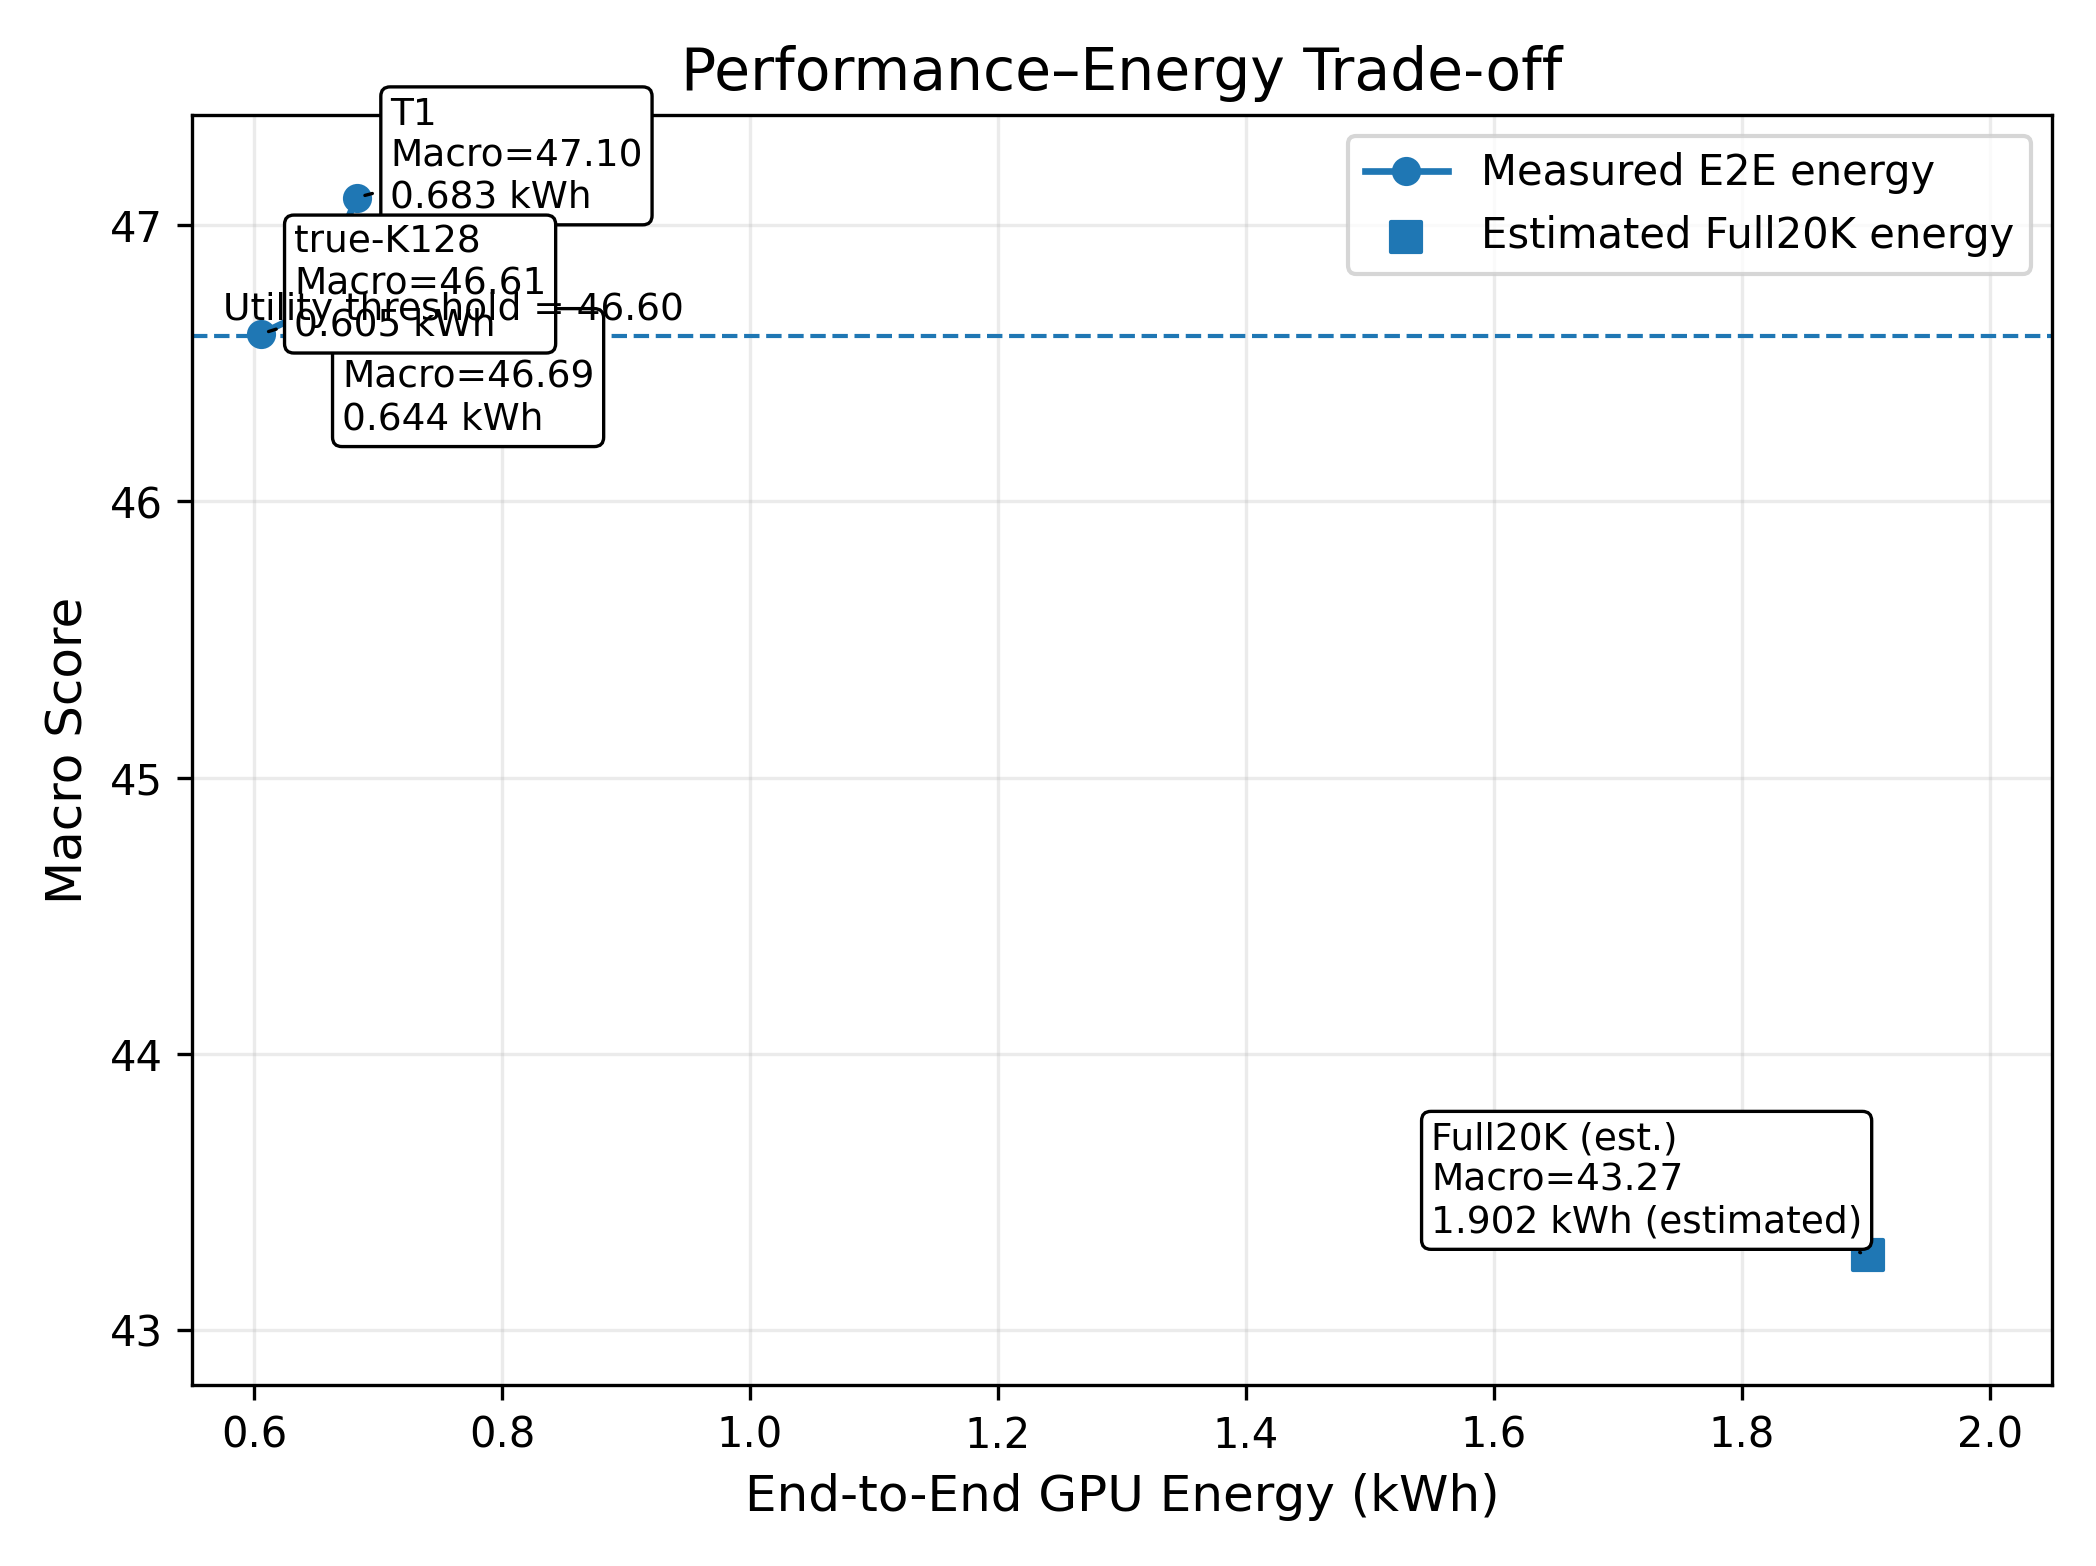
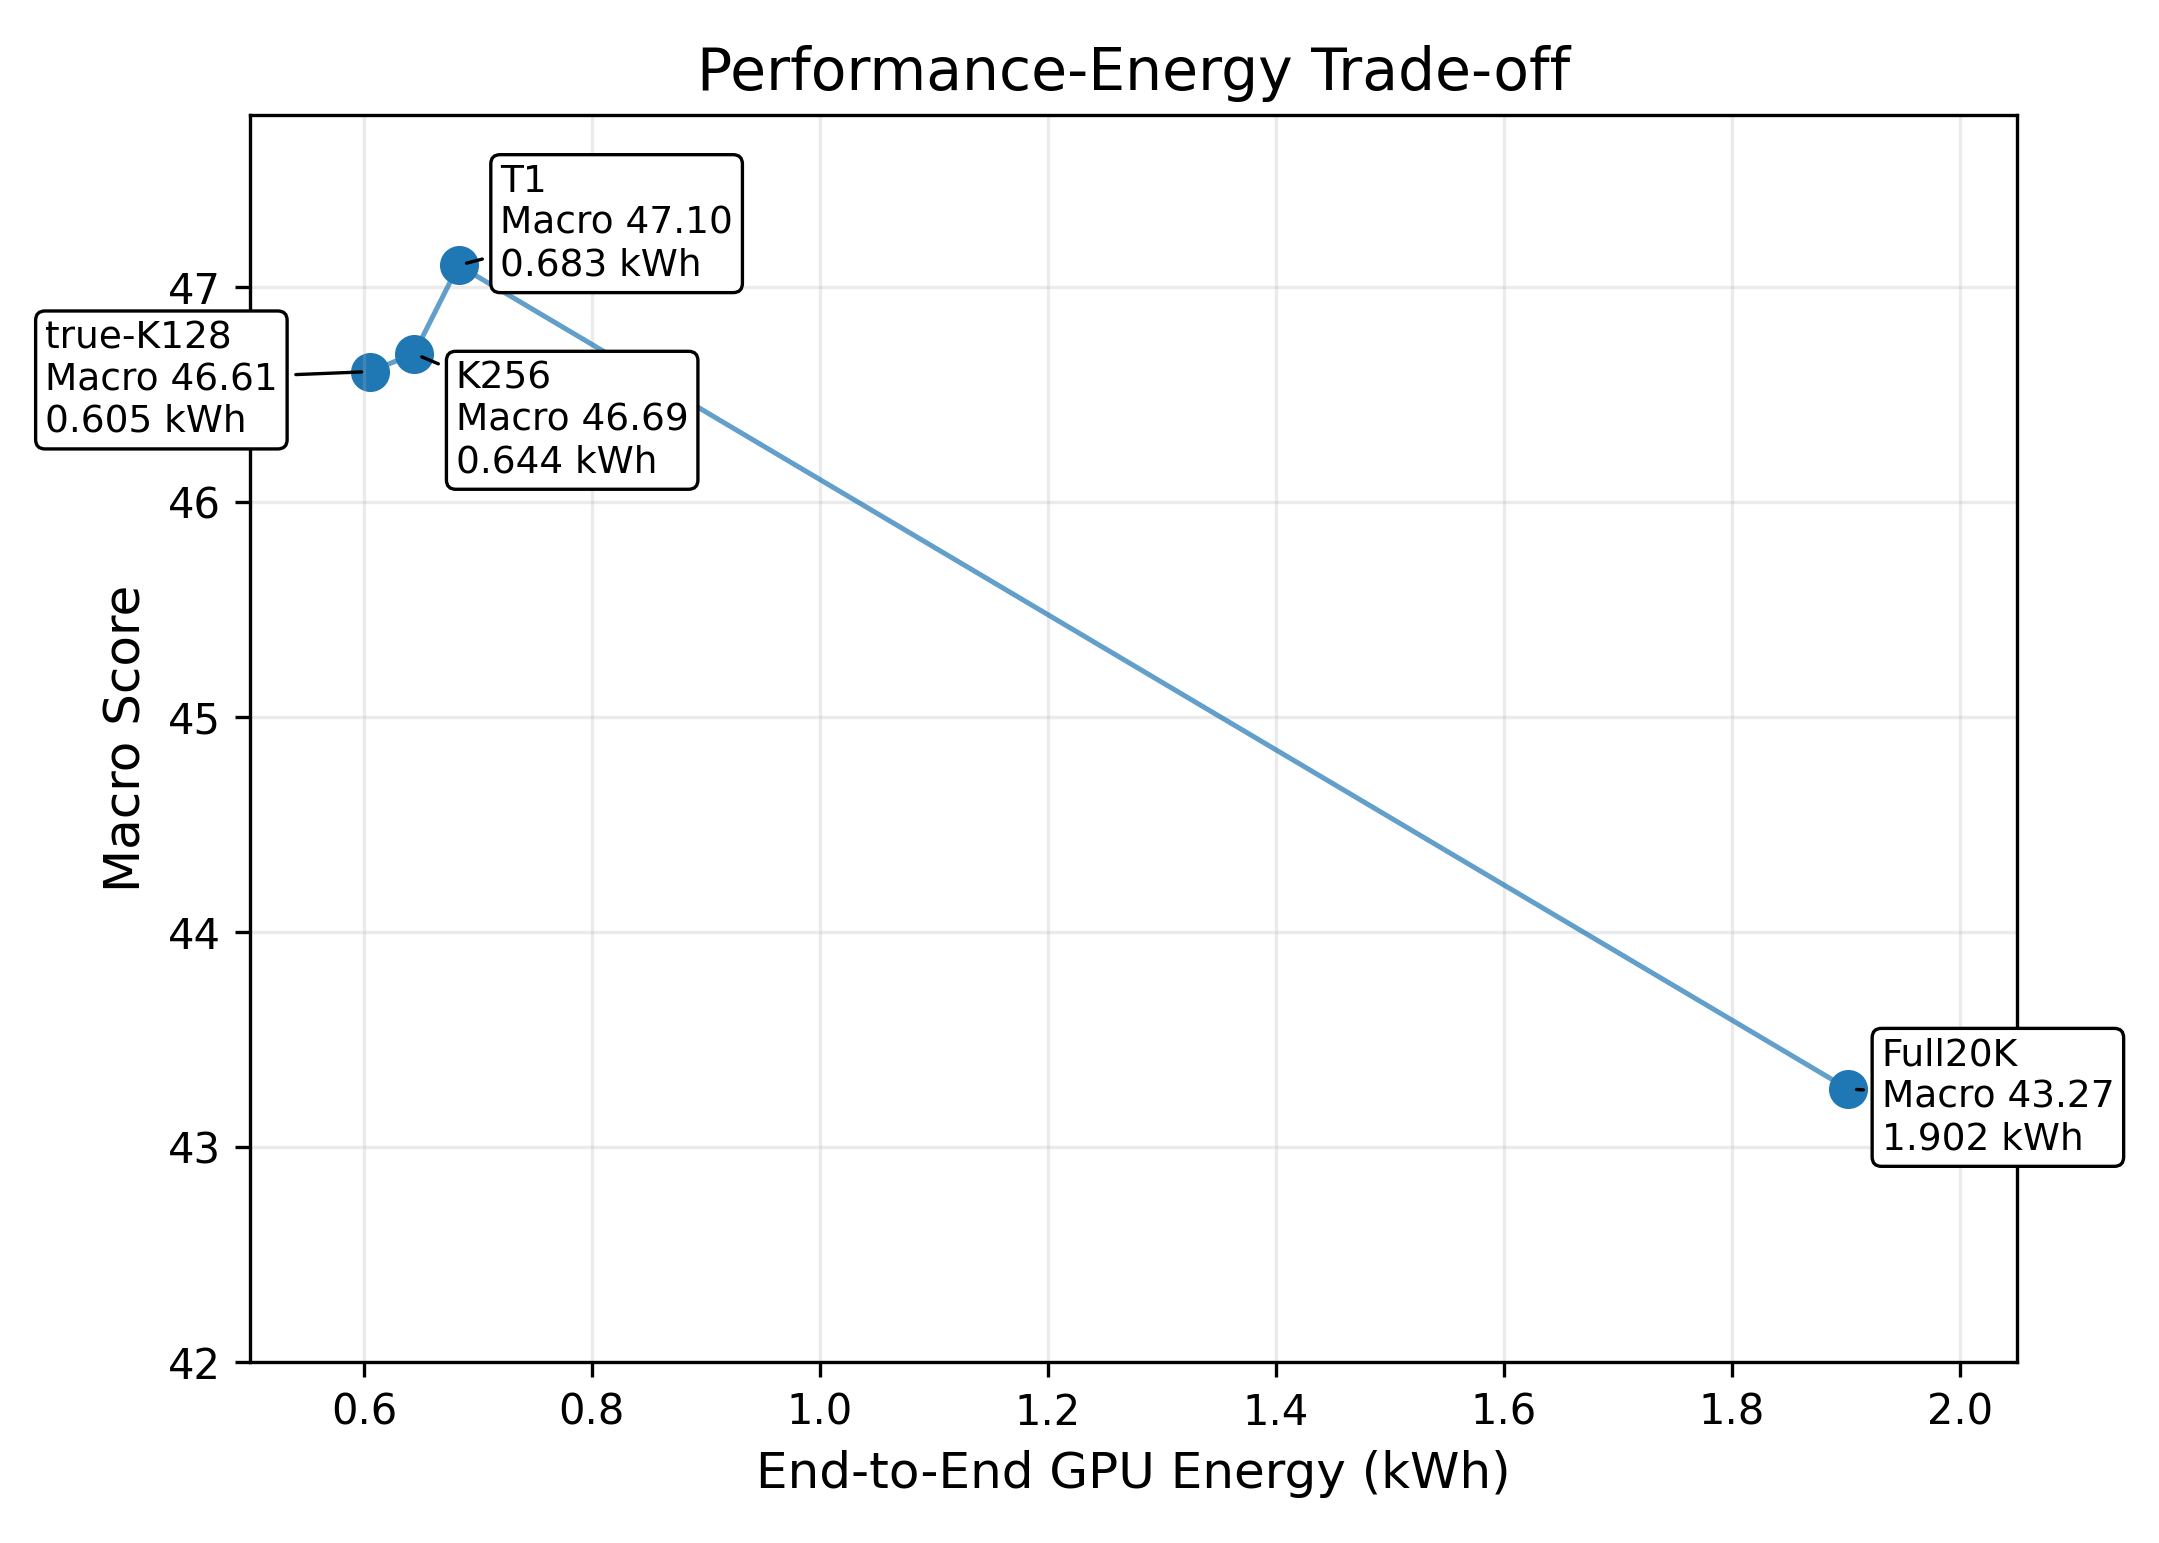
Refine pareto plot for public release

diff --git a/scripts/plots/fig2_pareto.py b/scripts/plots/fig2_pareto.py
@@ -4,47 +4,32 @@ from common import setup, save
 setup()
 
 data = [
-    {"name": "T1",              "energy": 0.682982, "macro": 47.1000, "estimated": False},
-    {"name": "K256",            "energy": 0.644048, "macro": 46.6894, "estimated": False},
-    {"name": "true-K128",       "energy": 0.605340, "macro": 46.6057, "estimated": False},
-    {"name": "Full20K (est.)",  "energy": 1.902000, "macro": 43.2700, "estimated": True},
+    {"name": "Full20K",   "energy": 1.902000, "macro": 43.2700},
+    {"name": "T1",        "energy": 0.682982, "macro": 47.1000},
+    {"name": "K256",      "energy": 0.644048, "macro": 46.6894},
+    {"name": "true-K128", "energy": 0.605340, "macro": 46.6057},
 ]
 
+fig, ax = plt.subplots(figsize=(7.6, 5.4))
+
+xs = [d["energy"] for d in data]
+ys = [d["macro"] for d in data]
+
+# 연결선은 과하지 않게
+ax.plot(xs, ys, linewidth=1.2, alpha=0.7)
+ax.scatter(xs, ys, s=70)
+
 offsets = {
-    "T1":             (8, 10),
-    "K256":           (8, -16),
-    "true-K128":      (8, 12),
-    "Full20K (est.)": (-105, 18),
+    "Full20K":   (8, -2),
+    "T1":        (10, 10),
+    "K256":      (10, -16),
+    "true-K128": (-78, -2),
 }
-
-fig, ax = plt.subplots(figsize=(8.0, 5.5))
-
-measured = [d for d in data if not d["estimated"]]
-ax.plot(
-    [d["energy"] for d in measured],
-    [d["macro"] for d in measured],
-    marker="o",
-    linewidth=1.6,
-    label="Measured E2E energy",
-)
-
-full = next(d for d in data if d["estimated"])
-ax.scatter(
-    [full["energy"]],
-    [full["macro"]],
-    marker="s",
-    s=55,
-    label="Estimated Full20K energy",
-)
 
 for d in data:
     dx, dy = offsets[d["name"]]
-    energy_label = f'{d["energy"]:.3f} kWh'
-    if d["estimated"]:
-        energy_label += " (estimated)"
-
     ax.annotate(
-        f'{d["name"]}\nMacro={d["macro"]:.2f}\n{energy_label}',
+        f'{d["name"]}\nMacro {d["macro"]:.2f}\n{d["energy"]:.3f} kWh',
         (d["energy"], d["macro"]),
         xytext=(dx, dy),
         textcoords="offset points",
@@ -52,25 +37,17 @@ for d in data:
         ha="left",
         va="center",
         bbox=dict(boxstyle="round,pad=0.25", fc="white", ec="black", lw=0.8),
-        arrowprops=dict(arrowstyle="-", lw=0.8),
+        arrowprops=dict(arrowstyle="-", lw=0.8)
     )
-
-ax.axhline(46.6, linestyle="--", linewidth=1.0)
-ax.text(
-    0.575, 46.63,
-    "Utility threshold = 46.60",
-    fontsize=9,
-    va="bottom",
-)
 
 ax.set_xlabel("End-to-End GPU Energy (kWh)")
 ax.set_ylabel("Macro Score")
-ax.set_title("Performance–Energy Trade-off")
+ax.set_title("Performance-Energy Trade-off")
 ax.grid(True, alpha=0.25)
-ax.legend(frameon=True)
 
-ax.set_xlim(0.55, 2.05)
-ax.set_ylim(42.8, 47.4)
+# 너무 과장되지 않게 y축 범위를 넉넉하게
+ax.set_xlim(0.50, 2.05)
+ax.set_ylim(42.0, 47.8)
 
 save(fig, "figs/performance_energy_pareto.png")
 print("Saved: figs/performance_energy_pareto.png")
